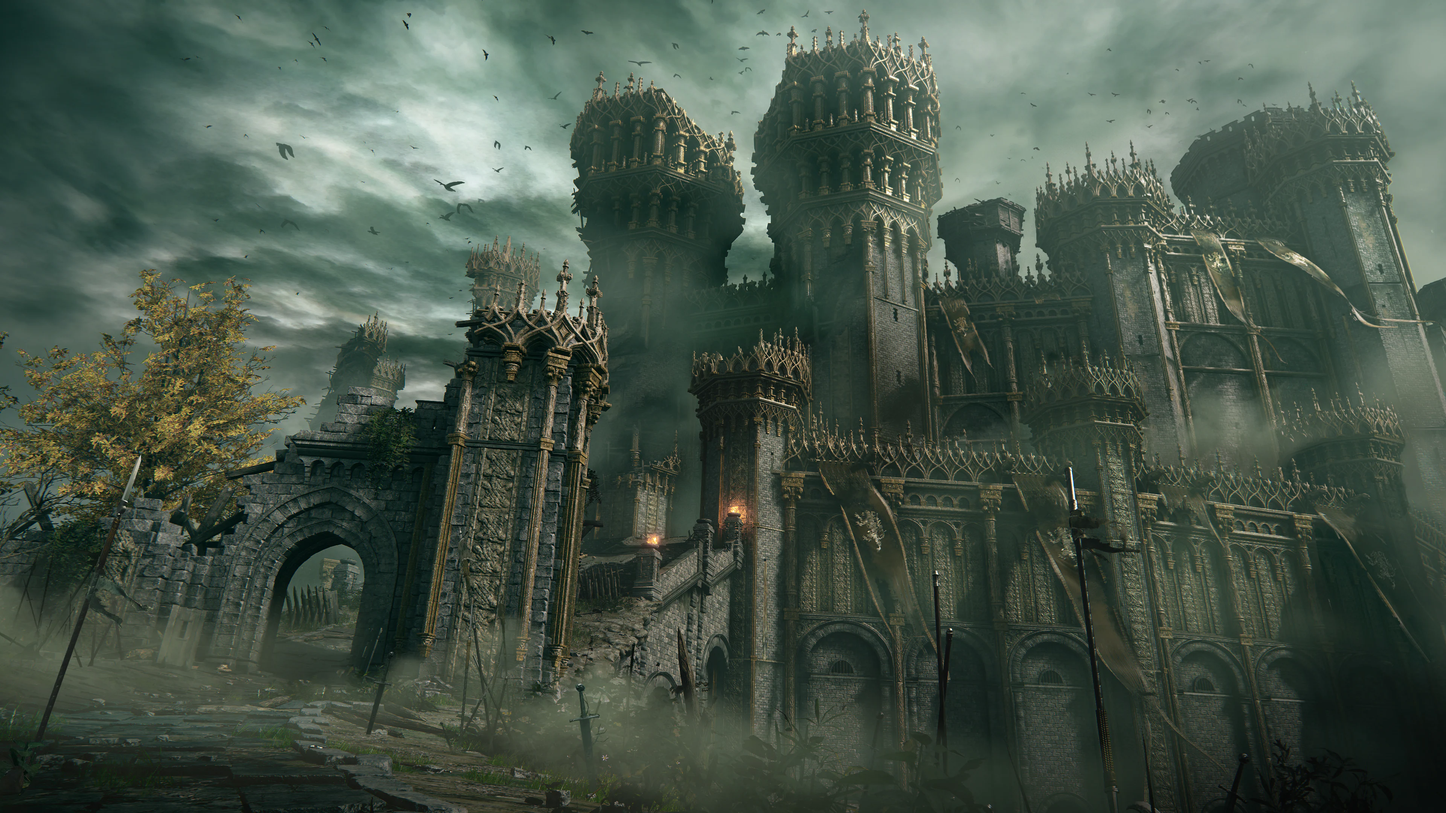
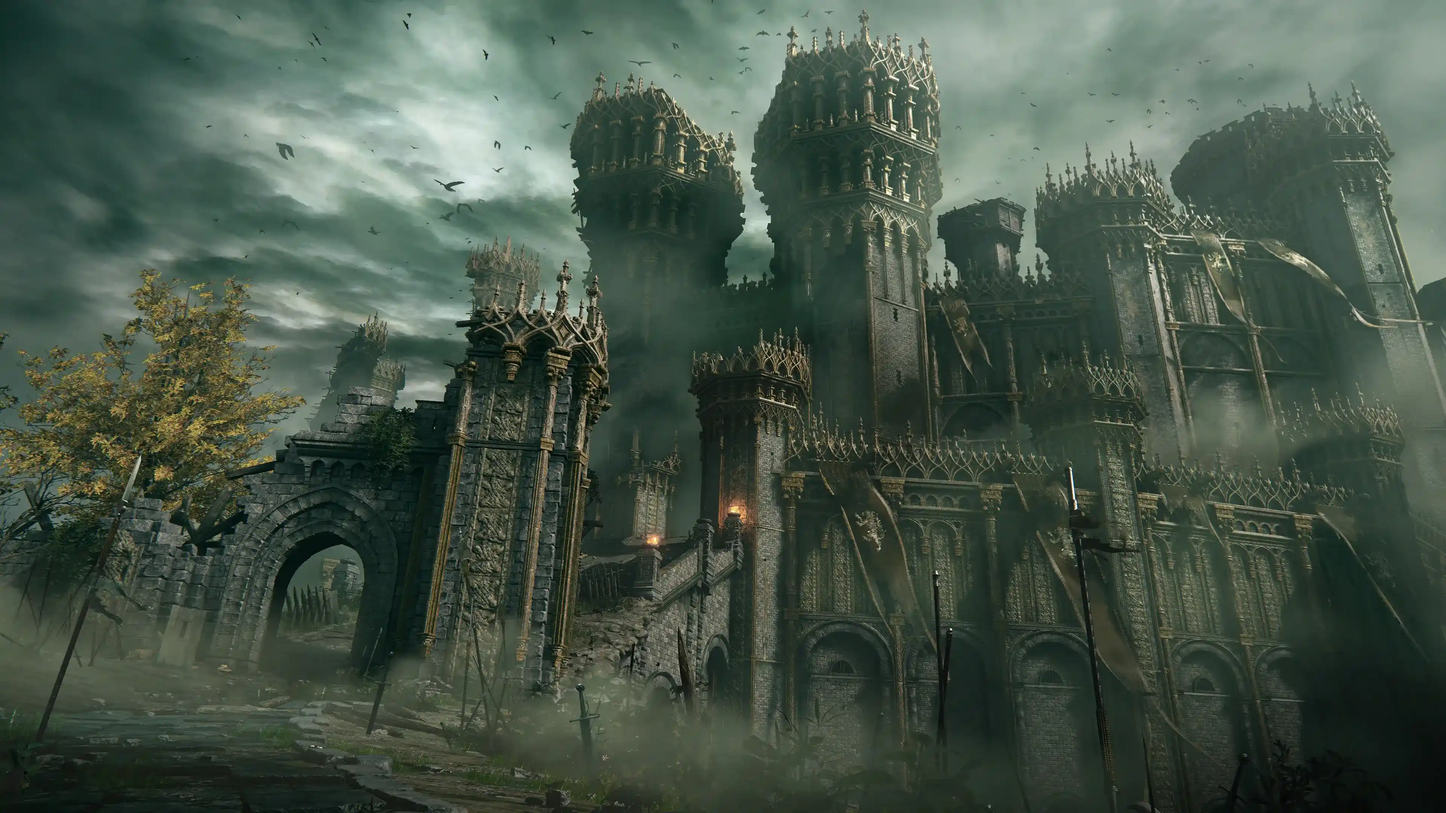
feat: change jpg to webp

diff --git a/script/banner.js b/script/banner.js
@@ -1,8 +1,8 @@
 function updateBannerBackground(weatherIcon) {
     // define the background images for each weather condition based on weather icon codes
     const backgroundImages = {
-        '01d': 'url(/images/clear.jpeg)',
-        '01n': 'url(/images/clear.jpeg)',
+        '01d': 'url(/images/clear.webp)',
+        '01n': 'url(/images/clear.webp)',
         '02d': 'url(/images/clouds.webp)',
         '02n': 'url(/images/clouds.webp)',
         '03d': 'url(/images/clouds.webp)',
@@ -13,12 +13,12 @@ function updateBannerBackground(weatherIcon) {
         '09n': 'url(/images/rain.webp)',
         '10d': 'url(/images/rain.webp)',
         '10n': 'url(/images/rain.webp)',
-        '11d': 'url(/images/thunder.jpg)',
-        '11n': 'url(/images/thunder.jpg)',
-        '13d': 'url(/images/snow.jpeg)',
-        '13n': 'url(/images/snow.jpeg)',
-        '50d': 'url(/images/fog.jpg)',
-        '50n': 'url(/images/fog.jpg)',
+        '11d': 'url(/images/thunder.webp)',
+        '11n': 'url(/images/thunder.webp)',
+        '13d': 'url(/images/snow.webp)',
+        '13n': 'url(/images/snow.webp)',
+        '50d': 'url(/images/fog.webp)',
+        '50n': 'url(/images/fog.webp)',
     };
 
     const banner = document.getElementById('weather-banner');
